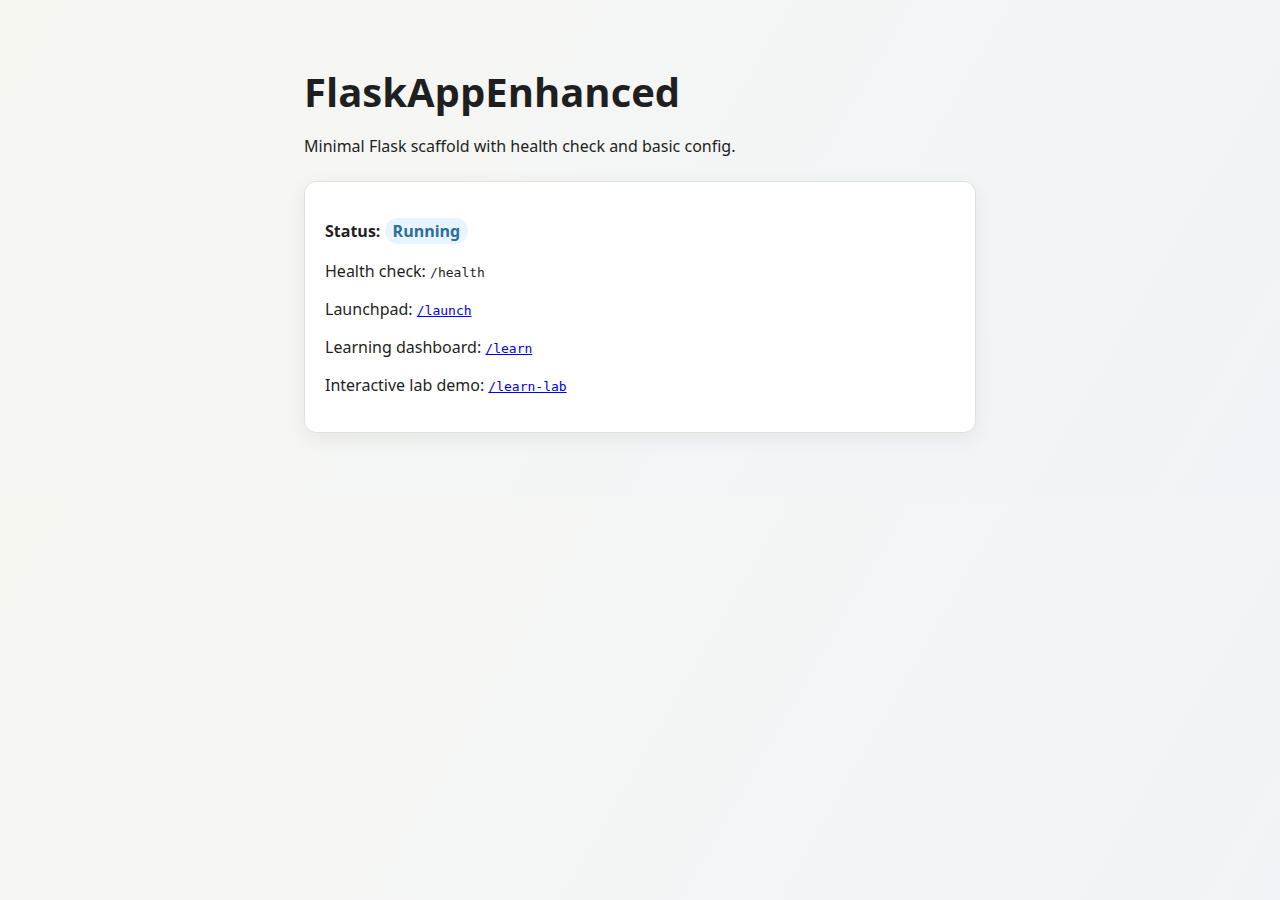
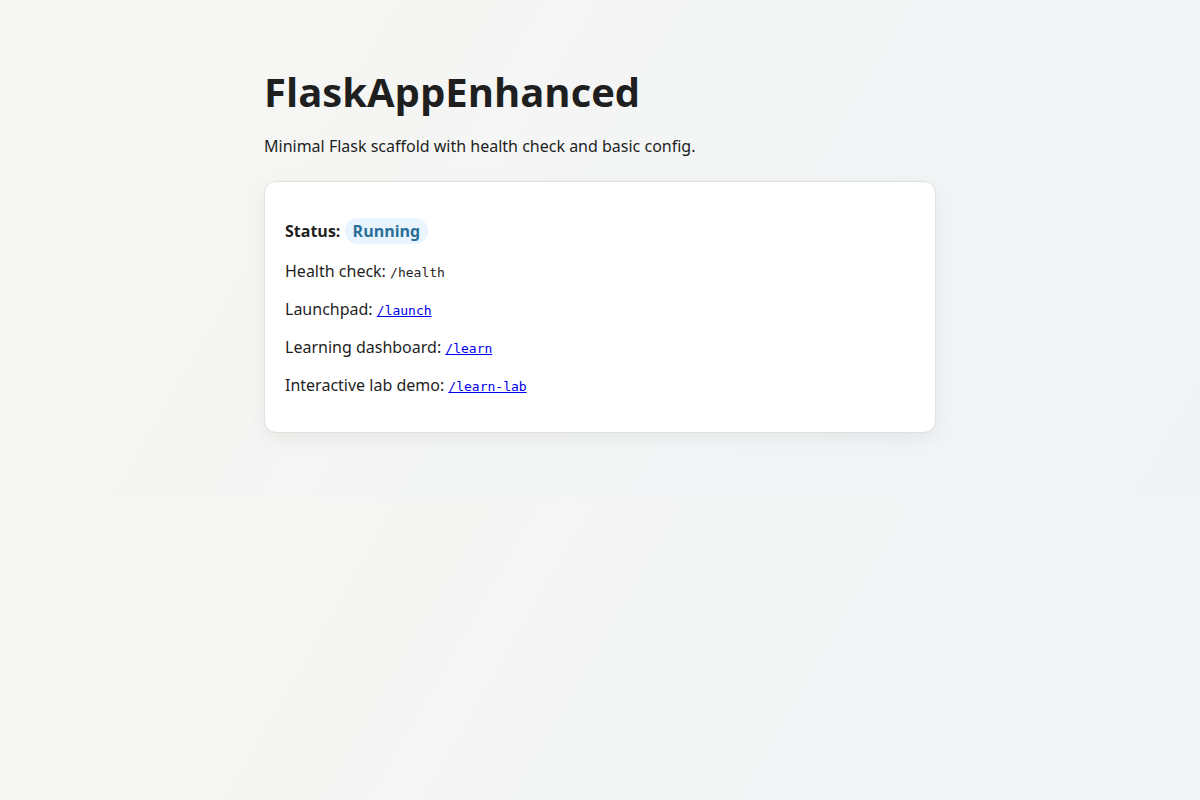
Polish the portfolio README and refresh the home screenshot. (#113)
Rewrite the README around the running app, the tests, and the CI workflow so the setup steps match commands that were actually run.

Changed region(s): [[0.2158, 0.25, 0.4625, 0.5], [0.2158, 0.0625, 0.5858, 0.1875]]

diff --git a/README.md b/README.md
@@ -1,53 +1,28 @@
 # FlaskAppEnhanced
 
-Small Flask app for learning a minimal web service: a few HTML pages, a CSRF form, a JSON echo endpoint, structured request logs, and GitHub Actions checks.
+Personal portfolio project showing support engineering, QA, tooling, and automation: a small Flask service with health checks, request logs, safe defaults, tests, and GitHub Actions.
 
 [![CI](https://github.com/dkupratis-debug/FlaskAppEnhanced/actions/workflows/ci.yml/badge.svg)](https://github.com/dkupratis-debug/FlaskAppEnhanced/actions/workflows/ci.yml)
-[![CodeQL](https://github.com/dkupratis-debug/FlaskAppEnhanced/actions/workflows/codeql.yml/badge.svg)](https://github.com/dkupratis-debug/FlaskAppEnhanced/actions/workflows/codeql.yml)
-[![License: MIT](https://img.shields.io/badge/License-MIT-blue.svg)](LICENSE)
 
 ## Features
 
-- `GET /` renders the home page.
+- `GET /` is the home page. `GET /learn`, `GET /learn-lab`, and `GET /launch` are learning pages. Progress stays in the browser under the `localStorage` keys `flaskappenhanced-learning-progress` and `flaskappenhanced-learn-lab-progress`. There is no database.
 - `GET /health` returns JSON `{"status": "ok"}` and is exempt from rate limits.
-- `GET /submit` renders a name form with a hidden CSRF token. `POST /submit` reads the form field `name` (blank becomes `anonymous`). A browser form post (Accept prefers `text/html`) redirects back to the form and shows `Thanks, {name}.` Requests that do not prefer HTML (`Accept: application/json`, `Accept: */*`, a JSON content type, or no Accept header) still get a JSON body. A form field `name=Ada` with one of those Accept values returns `{"message": "Thanks, Ada."}`.
-- `POST /api/echo` is CSRF-exempt, has a route limit of `30 per minute`, and returns the JSON body as `{"received": ...}`.
-- Flask-Limiter applies the default limits `200 per day` and `50 per hour`, with `X-RateLimit-*` headers. Storage defaults to `memory://`.
-- Responses set `X-Content-Type-Options: nosniff`, `X-Frame-Options: DENY`, `Referrer-Policy: no-referrer`, and `Content-Security-Policy` (default `default-src 'self'`).
-- Each request gets an `X-Request-Id` (incoming header or a new UUID). Access logs are one JSON object per request, with method, path, status, duration, and remote. `remote` is `remote_addr` unless `TRUST_PROXY_COUNT` is greater than 0, in which case it is the `X-Forwarded-For` value when that header is present.
-- `GET /learn`, `GET /learn-lab`, and `GET /launch` render learning pages. `/learn` and `/learn-lab` load `/static/learn.js` and `/static/learn_lab.js`. Those scripts use `localStorage` keys `flaskappenhanced-learning-progress` and `flaskappenhanced-learn-lab-progress`.
-- With `FLASK_ENV=production`, startup fails if `SECRET_KEY` is empty or still `dev-not-secret`.
+- `GET /submit` shows a name form with a CSRF token. A browser post redirects back to the form and shows `Thanks, {name}.` A blank name becomes `anonymous`. Clients that do not prefer HTML, including default `curl` (`Accept: */*`), get JSON `{"message": "Thanks, {name}."}` instead. A missing or invalid CSRF token returns HTTP 400.
+- `POST /api/echo` is exempt from CSRF, limited to 30 requests per minute, and returns the JSON body as `{"received": ...}`.
+- Default rate limits are 200 per day and 50 per hour, with `X-RateLimit-*` headers. Storage defaults to `memory://`.
+- Responses set `X-Content-Type-Options: nosniff`, `X-Frame-Options: DENY`, `Referrer-Policy: no-referrer`, and `Content-Security-Policy` (default `default-src 'self'`). Each response also sets `X-Request-Id` from the incoming header, or a new UUID. Access logs are one JSON object per request, with method, path, status, duration, and remote address. With `TRUST_PROXY_COUNT` at 0, a client-supplied `X-Forwarded-For` is not copied into the log.
+- When `FLASK_ENV=production`, startup raises `RuntimeError` if `SECRET_KEY` is empty or still `dev-not-secret`.
 
-## Tech stack
+## Screenshot
 
-- Python `>=3.10` (`pyproject.toml`). The CI test job uses Python 3.11. The docs audit workflow uses Python 3.12. Local checks for this README used Python 3.12.3.
-- Runtime (`requirements.txt`): Flask 3.1.3, Flask-WTF 1.2.1, Flask-Limiter 3.8.0, gunicorn 22.0.0, python-dotenv 1.2.2.
-- Development (`requirements-dev.txt`): pytest 9.0.3, ruff 0.9.6, build 1.2.2.post1, pre-commit 3.8.0.
-- Jinja templates and one stylesheet, `app/static/styles.css`.
-- Package metadata and the `flaskappenhanced` console script are in `pyproject.toml` (version 0.3.2). `app/__main__.py` calls `app.run()`.
-- `Dockerfile` uses `python:3.11-slim` and starts gunicorn with `FLASK_ENV=production` on port 8000. `render.yaml` is a Render blueprint. This repo does not record a live demo URL.
-
-## Screenshots
-
-Captured from the local development server (`python app.py` on `http://127.0.0.1:5000`).
-
-Home page (`GET /`):
+Home page from the local development server (`python app.py` at `http://127.0.0.1:5000`):
 
 ![Home page](docs/screenshots/home.png)
 
-Sample form (`GET /submit`):
+## Setup
 
-![Sample form](docs/screenshots/submit.png)
-
-Learning dashboard (`GET /learn`). `/static/learn.js` fills the checklist. The default Content-Security-Policy is `default-src 'self'`, which allows that same-origin file:
-
-![Learning dashboard](docs/screenshots/learn.png)
-
-## Quick start
-
-Requires Python 3.10 or newer.
-
-Linux or macOS (verified with Python 3.12.3):
+Python 3.10 or newer. These commands were run with Python 3.12.3.
 
 ```bash
 python3 -m venv venv
@@ -56,34 +31,27 @@ python -m pip install -r requirements.txt
 python app.py
 ```
 
-The development server listens on `http://127.0.0.1:5000` with debug mode on, because `DevelopmentConfig` sets `DEBUG`. Open `/` or check health:
+The development server listens on `http://127.0.0.1:5000` with debug mode on, because `DevelopmentConfig` sets `DEBUG`. It is the Werkzeug development server, not a production deployment.
 
 ```bash
-curl http://127.0.0.1:5000/health
+curl -sS http://127.0.0.1:5000/health
 ```
 
-Windows PowerShell (activation and environment variables differ; same steps as `tasks.ps1`):
+That request returned HTTP 200 and JSON `{"status": "ok"}`. With debug mode on, Flask pretty-prints the body.
 
-```powershell
-python -m venv venv
-.\venv\Scripts\Activate.ps1
-python -m pip install -r requirements.txt
-python app.py
-```
-
-Optional configuration: copy `.env.example` to `.env`. `app.py` calls `load_dotenv()` when python-dotenv imports. Values below are the code defaults.
+Copy `.env.example` to `.env` only when you want local overrides. `app.py` loads `.env` when python-dotenv imports. Loading the example file sets `FLASK_ENV=development` and `SECRET_KEY` to the placeholder `change-me`. `.env` is gitignored. Do not commit it.
 
 | Variable | Default | Role |
 | --- | --- | --- |
-| `FLASK_ENV` | `development` | `production` selects `ProductionConfig` |
-| `SECRET_KEY` | `dev-not-secret` | Rejected when `FLASK_ENV=production` |
+| `FLASK_ENV` | `development` | `production` selects production settings |
+| `SECRET_KEY` | `dev-not-secret` | Empty or `dev-not-secret` aborts production startup |
 | `RATELIMIT_DEFAULT` | `200 per day;50 per hour` | Flask-Limiter defaults |
-| `RATELIMIT_STORAGE_URI` | `memory://` | Limiter storage |
-| `TRUST_PROXY_COUNT` | `0` | Enables `ProxyFix` when greater than 0 |
+| `RATELIMIT_STORAGE_URI` | `memory://` | Limiter storage. Production logs a warning to use Redis while this stays in memory |
+| `TRUST_PROXY_COUNT` | `0` | Values above 0 enable ProxyFix and log `X-Forwarded-For` when that header is present |
 | `CONTENT_SECURITY_POLICY` | `default-src 'self'` | CSP response header |
-| `LOG_FILE` | unset | Rotating file log; otherwise logs go to stderr |
+| `LOG_FILE` | unset | Rotating file log. Otherwise logs go to stderr |
 
-Production config, verified with gunicorn 22.0.0. `/health` returned `{"status":"ok"}`. Without `SECRET_KEY`, process startup raises `RuntimeError`.
+Production, run here with gunicorn 22.0.0. `/health` returned `{"status":"ok"}`. The same launch without `SECRET_KEY` exited with `RuntimeError`.
 
 ```bash
 export FLASK_ENV=production
@@ -92,22 +60,13 @@ export GUNICORN_BIND=127.0.0.1:8000
 gunicorn -c gunicorn.conf.py wsgi:app
 ```
 
-`gunicorn.conf.py` uses `0.0.0.0:8000`, 2 workers, and 2 threads when those `GUNICORN_*` variables are unset. On startup with `memory://` storage, the app logs a warning to use Redis for accurate limits across processes.
+`change-me` is the placeholder in `.env.example`. Replace it before any shared or public deployment. Production startup only rejects an empty key and `dev-not-secret`. `gunicorn.conf.py` uses `0.0.0.0:8000`, 2 workers, and 2 threads when the `GUNICORN_*` variables are unset. With `memory://` storage, each worker logs a warning to use Redis so limits stay accurate across processes.
 
-PowerShell:
+`make test` and `make lint` passed. They call the venv Python directly. `make prod` sets `FLASK_ENV=production` and does not set `SECRET_KEY`. `tasks.ps1` has `install`, `dev`, `test`, `lint`, `run`, and `prod` for PowerShell. It was not run here. Its `prod` task has the same `SECRET_KEY` gap.
 
-```powershell
-$env:FLASK_ENV = "production"
-$env:SECRET_KEY = "change-me"
-$env:GUNICORN_BIND = "127.0.0.1:8000"
-gunicorn -c gunicorn.conf.py wsgi:app
-```
+## Tests
 
-`change-me` is the placeholder in `.env.example`. It is accepted because production only rejects an empty key and `dev-not-secret`.
-
-## Running tests
-
-Install dev dependencies, then run the same commands as the CI test job. Verified locally on this branch: `pytest` reported 16 passed, and `ruff check .` reported all checks passed.
+Install the dev requirements, then run the same checks as the CI test job:
 
 ```bash
 python -m pip install -r requirements-dev.txt
@@ -115,27 +74,28 @@ pytest
 ruff check .
 ```
 
-`pyproject.toml` adds `-q` and disables the pytest cache provider. Tests live in `tests/test_app.py` and use Flask's test client.
+On Python 3.12.3, `pytest` reported 16 passed and `ruff check .` reported all checks passed. `pyproject.toml` adds `-q` and disables the pytest cache provider. Tests live in `tests/test_app.py` and use Flask's test client. They do not cover rate-limit exhaustion.
 
-PowerShell, from `tasks.ps1` after the venv is active:
-
-```powershell
-pip install -r requirements-dev.txt
-pytest
-ruff check .
-```
-
-The docs audit used by CI also passed locally:
+The docs audit from `.github/workflows/docs_quality.yml` also passed:
 
 ```bash
 python tools/docs_audit.py
 ```
 
-## Project structure
+## Tech stack
+
+- Python `>=3.10` (`pyproject.toml`). The CI test job uses Python 3.11. The docs audit workflow uses Python 3.12. The commands above were run with Python 3.12.3.
+- Runtime (`requirements.txt`): Flask 3.1.3, Flask-WTF 1.2.1, Flask-Limiter 3.8.0, gunicorn 22.0.0, python-dotenv 1.2.2.
+- Development (`requirements-dev.txt`): pytest 9.0.3, ruff 0.9.6, build 1.2.2.post1, pre-commit 3.8.0.
+- Jinja templates and one stylesheet, `app/static/styles.css`.
+- Package version 0.3.2 in `pyproject.toml`, with a `flaskappenhanced` console script. `app/__main__.py` calls `app.run()`.
+- `Dockerfile` uses `python:3.11-slim`, sets `FLASK_ENV=production`, and starts gunicorn on port 8000. The image was not run here. The same production secret check applies, so the container needs a non-default `SECRET_KEY`. This repo does not record a live demo URL. `render.yaml` is a Render blueprint only.
+
+## Project layout
 
 ```text
 app/                  Flask package: factory, routes, templates, static CSS and JS
-app/ratelimit.py      Rate-limit storage URI, with a production memory warning
+app/ratelimit.py      Rate-limit storage URI and the production memory warning
 tests/test_app.py     Pytest suite
 config.py             Development and production settings
 app.py                Development entry point (loads .env, then app.run())
@@ -146,49 +106,16 @@ render.yaml           Render blueprint
 requirements.txt      Runtime dependencies
 requirements-dev.txt  Test and lint dependencies
 pyproject.toml        Package metadata, pytest, and ruff settings
-Makefile              Cross-platform tasks; calls the venv Python directly
-tasks.ps1             PowerShell tasks: install, dev, test, lint, run, prod
-tools/docs_audit.py   Docs existence, index links, and fence check
+Makefile              install, dev, test, lint, run, and prod
+tasks.ps1             PowerShell tasks for those same targets
+tools/docs_audit.py   Checks required docs, index links, and fenced code blocks
 tools/dashboard/      Local GitHub metrics UI (see its README)
-.github/workflows/    CI, CodeQL, release, package, and repo automation
-docs/                 Contributor and GitHub learning docs (docs/INDEX.md)
+.github/workflows/    CI and other GitHub Actions workflows
+docs/                 Contributor guides and troubleshooting notes (docs/INDEX.md)
 ```
 
-## Quality and automation
-
-`.github/workflows/ci.yml` runs on push and pull request:
-
-- `ruff check .` and `pytest` on Python 3.11
-- `pre-commit run --all-files` (trailing whitespace, YAML check, ruff, markdownlint)
-- markdownlint-cli2 on `**/*.md` using `.markdownlint.yml`
-- yamllint using `.yamllint.yml`
-- lychee link check on Markdown, with `.lycheeignore`
-
-Other workflows in `.github/workflows/`:
-
-- `codeql.yml`: CodeQL for Python on pushes and pull requests to `main`, plus a weekly schedule.
-- `dependency_review.yml`: dependency review on pull requests to `main`, failing on moderate severity.
-- `docs_quality.yml`: `python tools/docs_audit.py` on Python 3.12 for pushes and pull requests to `main`.
-- `workflow_security.yml`: harden-runner in audit mode and actionlint, on pushes and pull requests to `main`.
-- `release.yml`: on `v*` tags, checks that the tag matches `pyproject.toml`, builds a wheel and sdist, and creates a GitHub Release.
-- `package.yml`: builds and pushes a GHCR image on `main`, on `v*` tags, and on manual dispatch.
-- `auto_label.yml`: applies labels from `.github/labeler.yml` on pull requests.
-- `first_time_contributor.yml`: posts a welcome on a first issue or pull request.
-- `playground_branch_generator.yml`: manual workflow that pushes a branch for a chosen failing check.
-
-Ruff selects rules `E`, `F`, and `I` with a line length of 100. `Makefile` calls `venv/bin/python` on Linux and macOS and `venv\Scripts\python.exe` on Windows, so the targets do not activate a shell. `tasks.ps1` remains the PowerShell runner. `make test` and `make lint` were run on Linux against the project venv.
-
-## Design notes
-
-- `create_app()` picks `DevelopmentConfig` or `ProductionConfig` from `FLASK_ENV`. Session cookies are `HttpOnly` and `SameSite=Lax`. The secure flag is on only in production.
-- CSRF protection is on for the app. The form posts a `csrf_token` field. `/api/echo` is marked CSRF-exempt.
-- A missing or invalid CSRF token returns HTTP 400. Clients that prefer HTML get a short page; other clients get JSON `{"error": "..."}`. The request-id hook is registered before CSRF. If that hook did not run, `after_request` still sets `X-Request-Id` and writes the access log.
-- The default CSP is `default-src 'self'` and does not include `unsafe-inline`. `/learn` and `/learn-lab` load scripts from `/static/`, which that policy allows.
-- Request logs use `remote_addr` when `TRUST_PROXY_COUNT` is 0, so a client-supplied `X-Forwarded-For` is not copied into the log. When the count is greater than 0, the log records `X-Forwarded-For` if present, and `ProxyFix` is enabled with that hop count.
-- There is no database. Learning progress is stored in the browser under the `localStorage` keys above.
-- Tests cover the pages, echo payload, CSRF field, missing and invalid CSRF tokens, external learn scripts and the CSP header, proxy log handling, browser versus JSON submit responses, security headers on `/`, and the production secret check. They do not cover rate-limit exhaustion.
-- Maximum request body size defaults to 1 MiB (`MAX_CONTENT_LENGTH`). CSRF tokens expire after 3600 seconds unless `WTF_CSRF_TIME_LIMIT` is set.
+CI (`.github/workflows/ci.yml`) runs on every push and pull request: `ruff check .` and `pytest` on Python 3.11, pre-commit, markdownlint, yamllint, and a Markdown link check.
 
 ## License
 
-MIT. See [LICENSE](LICENSE).
+MIT. Copyright (c) 2026 David Kupratis. See [LICENSE](LICENSE).
